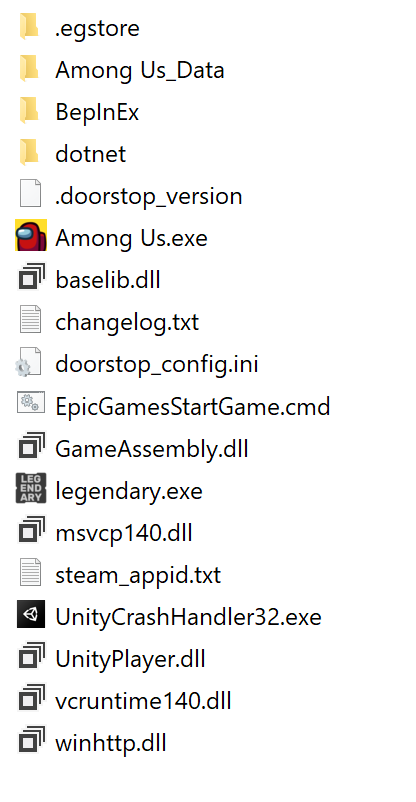
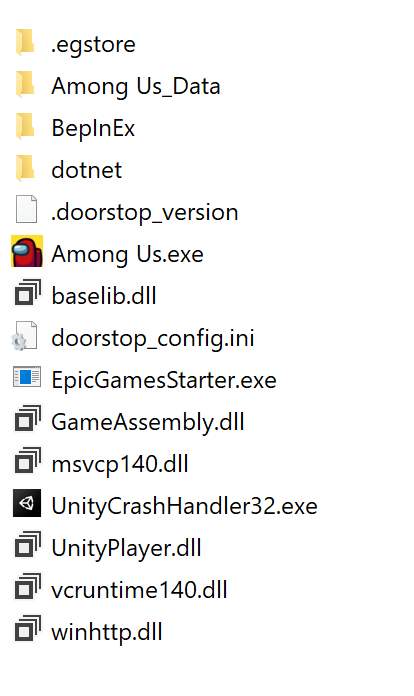
Epic Install Method Updates

Changed region(s): [[0.029, 0.0, 0.8116, 0.9655]]

diff --git a/Install.md b/Install.md
@@ -53,13 +53,11 @@ Installation requires that you own a PC version of Among Us on Steam, Epic, or I
 4. Select all of the files in your Among Us installation and copy them to the folder that now has the files from the TOHE release. The folder should now look something like this:<br>
 ![image](./images/EpicFiles.png)
 
-5. Make sure `legendary.exe` does not have a (1) or any other number in it and is named exactly this.
-
-6. Within the TOHE folder, run `EpicGamesStartGame.cmd`. The first time running it may take some time while installing a prerequisite and the mod sets up its files. If you see a black screen or a console window, just wait a couple minutes. Once it finishes loading, you should get a popup with TOHE news. If you do not see anything about TOHE, double check that your files are all in the same folder.
+6. Within the TOHE folder, run `EpicGamesStarter.exe`. The first time running it may take some time while installing a prerequisite and the mod sets up its files. If you see a black screen or a console window, just wait a couple minutes. Once it finishes loading, you should get a popup with TOHE news. If you do not see anything about TOHE, double check that your files are all in the same folder.
 
 7. Add the folder you put the mod and among us files in as a exclusion for any antivirus you have and windows defender.
 
-8. `(Optional)` Right click your `EpicGamesStartGame.cmd` and click '`Create shortcut`'. Move your new shortcut to wherever you can easily access it, such as your Desktop!
+8. `(Optional)` Right click your `EpicGamesStarter.exe` and click '`Create shortcut`'. Move your new shortcut to wherever you can easily access it, such as your Desktop!
 
 #### You have now installed Town of Host: Enhanced! All that remains is to start up a private lobby and customize your settings.
 
